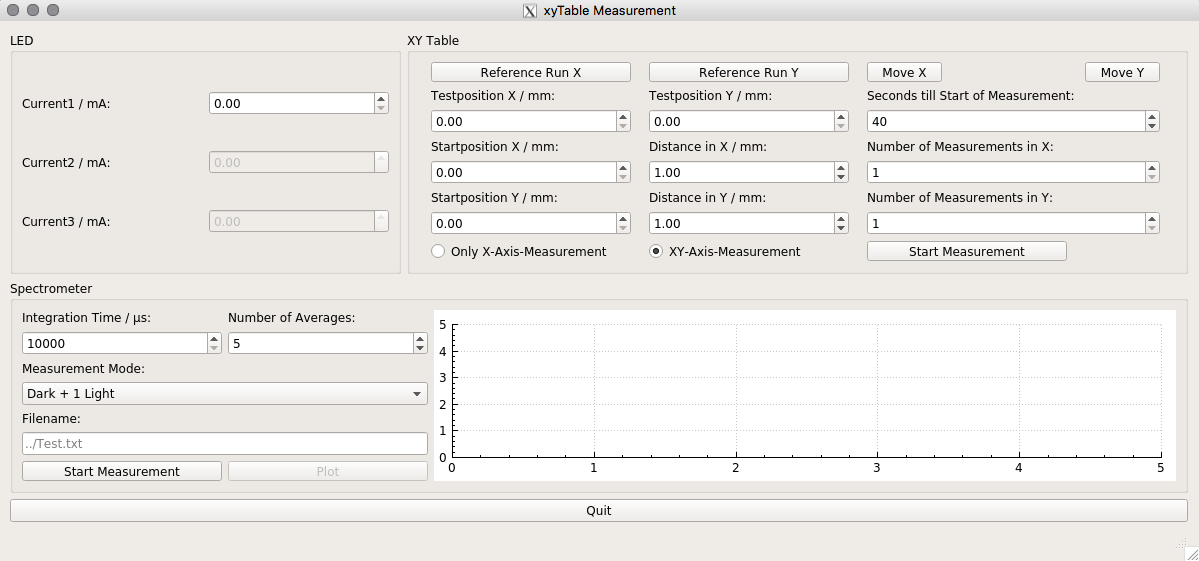
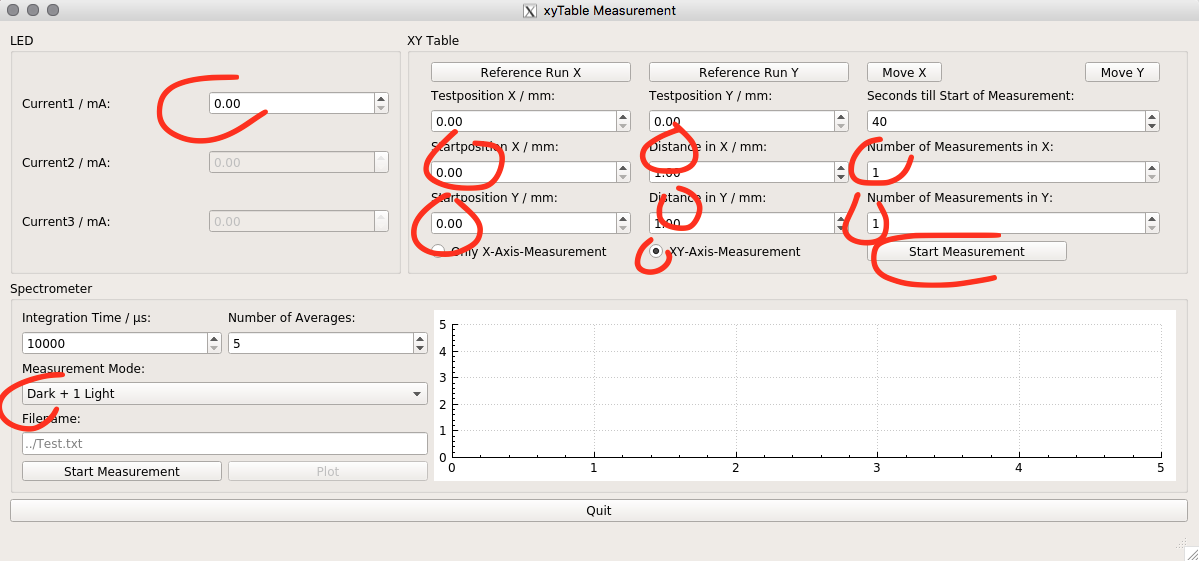
add description of xy measurement

diff --git a/README.md b/README.md
@@ -101,7 +101,6 @@ make
 2. Choose `Only X-Axis-Measurement`
 3.  Choose `Startposition X / mm, Distance in X / mm` and `Number of Measurements in X`
 	* Test the X-Startposition with `Testposition X / mm` and button `Move X`
-	* Test the Y-Startposition with `Testposition Y / mm` and button `Move Y`
 4. Choose a Spectrometer Measurement Mode:
 	*  `Single` + `Start Measurement` - Just a snapshot, afterwards you can hit the `Plot` button to display spectrum (use it to find the correct current)
 	* `Dark + 1 Light` - At each position take a darkcount and a light measurement with the given current
@@ -112,6 +111,24 @@ make
 
 
 ![](img/xyTable_OnlyX.png)
+
+5.) XY axis measurement:
+1. Apply a reference run if nessesary (carriages will move towards end switches to find zero position)
+2. Choose `XY-Axis-Measurement`
+3.  Choose `Startposition X / mm, Distance in X / mm` and `Number of Measurements in X`
+	* Test the X-Startposition with `Testposition X / mm` and button `Move X`
+4.  Choose `Startposition Y / mm, Distance in Y / mm` and `Number of Measurements in Y`
+	* Test the Y-Startposition with `Testposition Y / mm` and button `Move Y`
+5. Choose a Spectrometer Measurement Mode:
+	*  `Single` + `Start Measurement` - Just a snapshot, afterwards you can hit the `Plot` button to display spectrum (use it to find the correct current)
+	* `Dark + 1 Light` - At each position take a darkcount and a light measurement with the given current
+	* `Dark + 3 Light` - At each position take a darkcount and 3 light measurements with the given currents
+6. Choose a current for the LED (3 currents if `Dark + 3 Light` Measurement Mode was chosen)
+7. Choose a sleeping time, which you need, to leave the room and darken everything
+8. Hit the `Start Measurement` button at the `XY Table`section to start actually the measurement
+
+
+![](img/xyTable_xyMeas.png)
 
 
 [1]: https://git.e5.physik.tu-dortmund.de/jmueller/LEDClass
